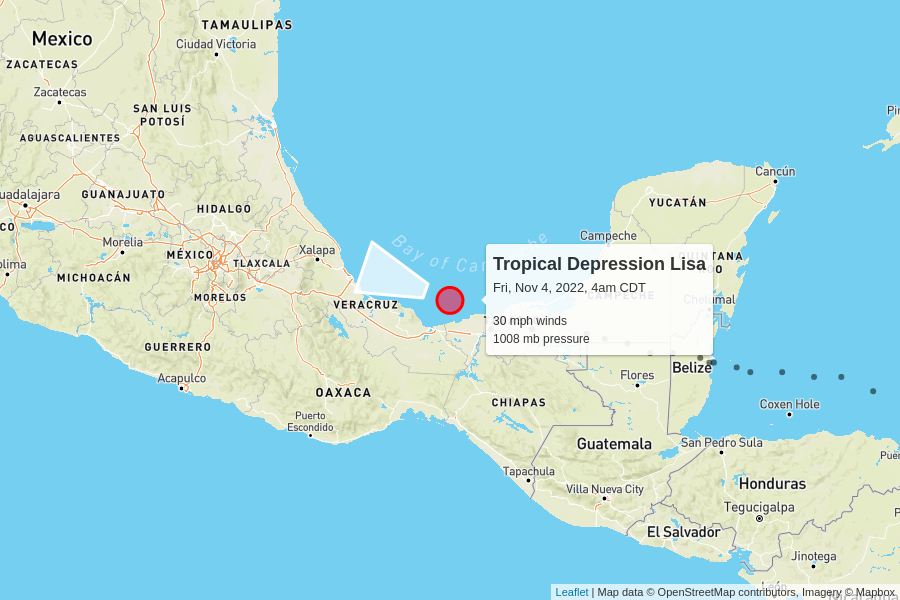
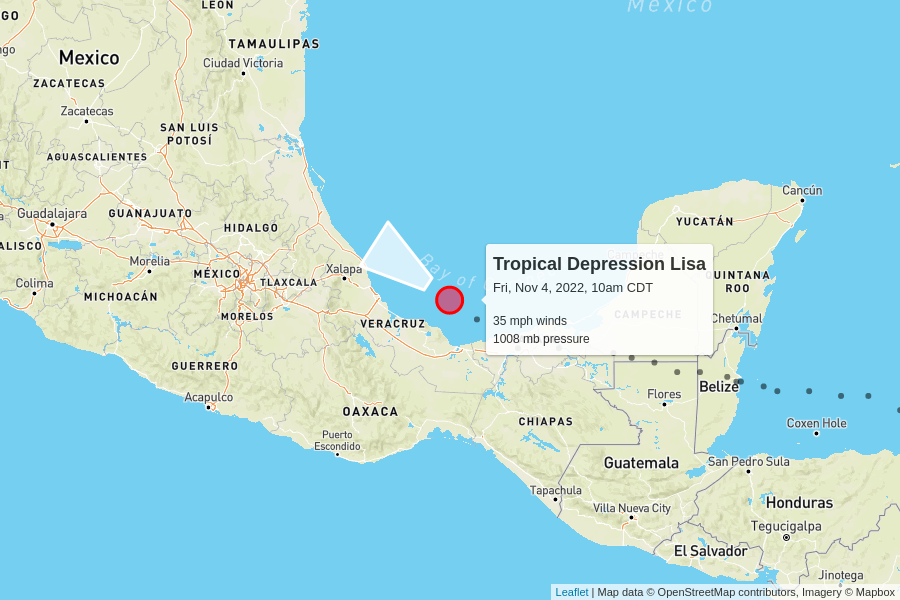
automatic update

diff --git a/docs/index.html b/docs/index.html
@@ -100,7 +100,7 @@
         <td colspan="6" class="storm category-0" >
           <h2>
             Tropical Depression Lisa
-            <p class="updated">last updated <span data-time>2022-11-04T09:00:00.000Z</span></p>
+            <p class="updated">last updated <span data-time>2022-11-04T15:00:00.000Z</span></p>
           </h2>
         </td>
       </tr>
@@ -115,12 +115,12 @@
       </tr>
       <tr>
         <td class="spacer"></td>
-        <td>30 mph</td>
+        <td>35 mph</td>
         <td>1008 mb</td>
         <td>
-          10 mph to the west-northwest
+          7 mph to the northwest
           <br/>
-          <span style="display: inline-block; font-size: 1.5em; transform: rotate(290deg);">↑</span>
+          <span style="display: inline-block; font-size: 1.5em; transform: rotate(305deg);">↑</span>
         </td>
         <td><a href="https://raw.githubusercontent.com/mgwalker/atlantic-hurricanes/main/data/csv/AL152022.csv">AL152022.csv</a></td>
         <td><a href="https://www.nhc.noaa.gov/archive/2022/LISA.shtml?">NHC advisories</a></td>
